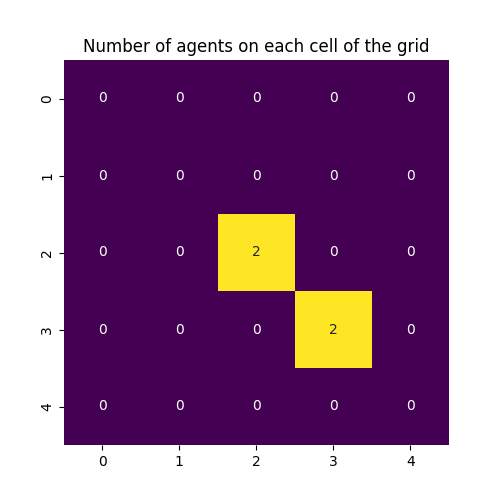
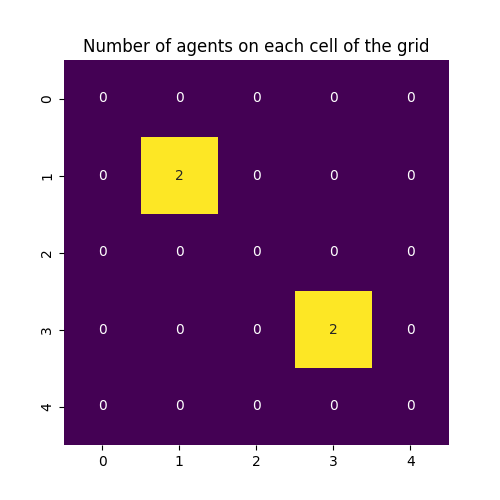
Add ability for villages to harvest resources from environment

Changed region(s): [[0.27, 0.27, 0.6, 0.6]]

diff --git a/main.py b/main.py
@@ -14,7 +14,7 @@ INITIAL_STATE = {
             "name": "River Village",
             "population": 50,
             "resources": {"food": 100, "water": 200, "materials": 50},
-            "location": {"x": 2, "y": 2},
+            "location": {"x": 1, "y": 1},
         },
         {
             "type": "village",
@@ -25,7 +25,7 @@ INITIAL_STATE = {
         },
         {
             "type": "river",
-            "location": {"x": 2, "y": 2},
+            "location": {"x": 1, "y": 1},
             "resources": {"food": 100, "water": 400, "materials": 0},
         },
         {
@@ -90,6 +90,36 @@ class VillageAgent(WorldAgent):
         total_score = food_score + water_score + materials_score
         return total_score
 
+    def update_happiness(self):
+        self.happiness = self.calculate_happiness()
+
+    def harvest_resources(self):
+        # find neighboring environment agents and harvest resources from them
+        # get environment cells in current cell
+        other_cells = self.cell.get_neighborhood(include_center=True)
+        for other_cell in other_cells:
+            for other_agent in other_cell.agents:
+                if isinstance(other_agent, EnvironmentAgent):
+                    # Harvest a portion of the resources from the environment limited by population
+                    harvested_food = int(other_agent.resources["food"] * 0.1)
+                    harvested_water = int(other_agent.resources["water"] * 0.1)
+                    harvested_materials = int(other_agent.resources["materials"] * 0.1)
+
+                    other_agent.resources["food"] -= harvested_food
+                    other_agent.resources["water"] -= harvested_water
+                    other_agent.resources["materials"] -= harvested_materials
+
+                    self.resources["food"] += harvested_food
+                    self.resources["water"] += harvested_water
+                    self.resources["materials"] += harvested_materials
+                    print(
+                        f"{self.name} harvested {harvested_food} food, {harvested_water} water, and {harvested_materials} materials from a {other_agent.type.value}"
+                    )
+
+    def step(self):
+        self.harvest_resources()
+        self.update_happiness()
+
     def to_json(self):
         return {
             "type": "village",
@@ -129,7 +159,7 @@ class WorldModel(mesa.Model):
         # calculate/update happiness for all villages
         village_agents = self.agents.select(agent_type=VillageAgent)
         for village in village_agents:
-            village.happiness = village.calculate_happiness()
+            village.step()
             print(
                 f"{village.name} has population={village.population}, resources={village.resources}, happiness={village.happiness:.2f}"
             )
@@ -165,10 +195,14 @@ def load_state(filename=STATE_FILENAME):
 
 
 def main():
-    state = load_state()
+    # state = load_state()
+    state = INITIAL_STATE
+    print(f"Initial state: {state}")
 
     model = WorldModel(5, 5, state["agents"])
-    model.step()
+    for _ in range(5):
+        model.step()
+        print(f"State after step {_ + 1}: {model.to_json()}")
 
     agent_counts = np.zeros((model.grid.width, model.grid.height))
 